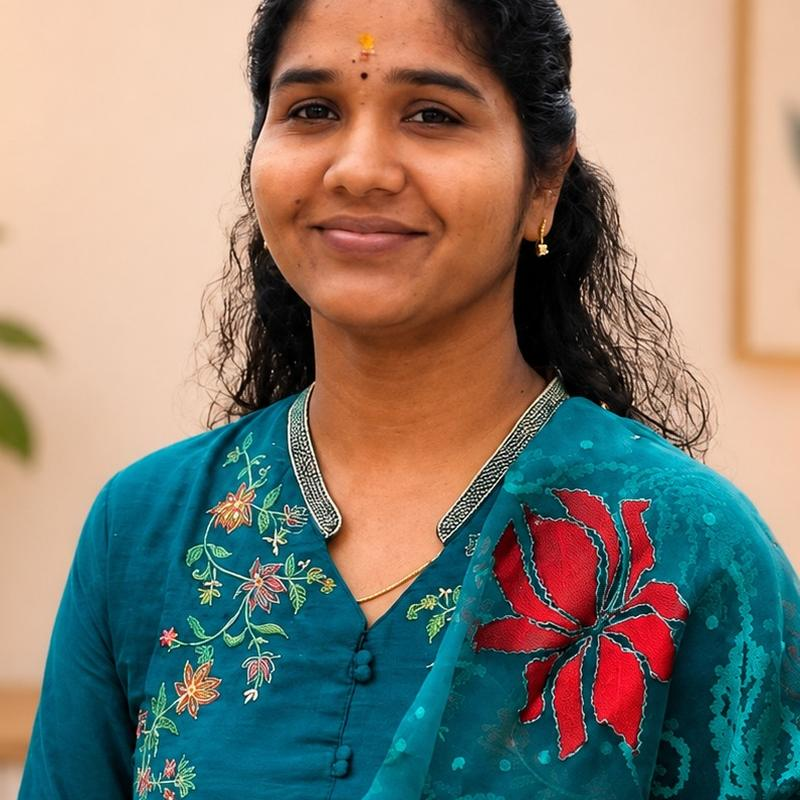
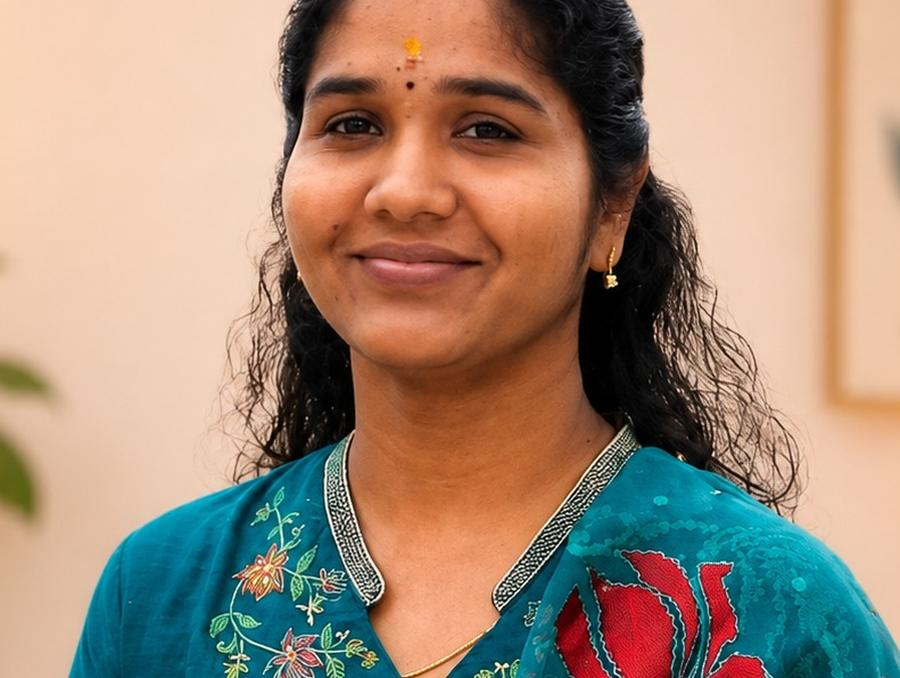
fix: center Dr. Monika's face in hero crop across all designs; unblock mobile action bar; version-stamp assets

diff --git a/index.html b/index.html
@@ -15,7 +15,7 @@
   <link rel="preconnect" href="https://fonts.googleapis.com">
   <link rel="preconnect" href="https://fonts.gstatic.com" crossorigin>
   <link rel="stylesheet" href="https://fonts.googleapis.com/css2?family=Anek+Tamil:wght@500;600;700&family=Hind+Madurai:wght@400;500;600;700&display=swap">
-  <link rel="stylesheet" href="css/style.css">
+  <link rel="stylesheet" href="css/style.css?v=3">
   <script type="application/ld+json">
   {
     "@context": "https://schema.org",
@@ -130,7 +130,7 @@
         </ul>
       </div>
       <figure class="hero-photo reveal">
-        <img src="assets/dr-monika-hero.jpg" alt="Dr. Monika M, Consultant Psychiatrist at MS Psychiatry Clinic, Madurai" width="480" height="470" style="object-position: 50% 18%" loading="eager">
+        <img src="assets/dr-monika-hero.jpg" alt="Dr. Monika M, Consultant Psychiatrist at MS Psychiatry Clinic, Madurai" width="480" height="470" loading="eager">
         <figcaption>
           <svg width="12" height="12" viewBox="0 0 24 24" fill="none" aria-hidden="true"><path d="M12 4v16M4 12h16" stroke="#D5392F" stroke-width="4" stroke-linecap="round"/></svg>
           Dr. Monika M · MD (Psychiatry) · MS கிளினிக்
@@ -445,12 +445,12 @@
   <svg width="26" height="26" viewBox="0 0 24 24" fill="none" aria-hidden="true"><path d="M12 3a9 9 0 0 0-7.8 13.5L3 21l4.7-1.2A9 9 0 1 0 12 3z" stroke="#fff" stroke-width="1.7"/><path d="M9 8.5c.4 2.9 3.6 6.1 6.5 6.5l1-1.8-2.3-1-1 .8a7 7 0 0 1-2.2-2.2l.8-1-1-2.3z" fill="#fff"/></svg>
 </a>
 
-<nav aria-label="Design previews" style="position: fixed; left: 16px; bottom: 16px; z-index: 80; display: flex; gap: 5px; padding: 5px; background: rgba(255,255,255,0.92); backdrop-filter: blur(8px); border: 1px solid #E9E3EF; border-radius: 999px; box-shadow: 0 6px 20px rgba(37,31,46,0.12); font-size: 11px; font-weight: 600">
+<nav class="design-pill" aria-label="Design previews" style="position: fixed; left: 16px; bottom: 16px; z-index: 80; display: flex; gap: 5px; padding: 5px; background: rgba(255,255,255,0.92); backdrop-filter: blur(8px); border: 1px solid #E9E3EF; border-radius: 999px; box-shadow: 0 6px 20px rgba(37,31,46,0.12); font-size: 11px; font-weight: 600">
   <a href="/" style="text-decoration: none; padding: 6px 11px; border-radius: 999px; background: #53407C; color: #fff">Current</a>
   <a href="/alt/dark.html" style="text-decoration: none; padding: 6px 11px; border-radius: 999px; color: #6E6879">ERP Dark</a>
   <a href="/alt/light.html" style="text-decoration: none; padding: 6px 11px; border-radius: 999px; color: #6E6879">ERP Light</a>
 </nav>
 
-<script src="js/main.js"></script>
+<script src="js/main.js?v=3"></script>
 </body>
 </html>

diff --git a/alt/dark.html b/alt/dark.html
@@ -9,7 +9,7 @@
   <link rel="preconnect" href="https://fonts.googleapis.com">
   <link rel="preconnect" href="https://fonts.gstatic.com" crossorigin>
   <link rel="stylesheet" href="https://fonts.googleapis.com/css2?family=Outfit:wght@400;500;600;700;800;900&family=JetBrains+Mono:wght@400;500;700&family=Hind+Madurai:wght@400;500;600&display=swap">
-  <link rel="stylesheet" href="alt.css">
+  <link rel="stylesheet" href="alt.css?v=3">
 </head>
 <body>
 
@@ -57,7 +57,7 @@
     </div>
     <div class="container" style="margin-top: 44px; display: grid; grid-template-columns: 1.2fr 0.8fr; gap: 16px">
       <figure class="hero-photo" style="margin: 0">
-        <img src="../assets/dr-monika-hero.jpg" alt="Dr. Monika M, Consultant Psychiatrist" style="height: 400px; object-position: 50% 18%">
+        <img src="../assets/dr-monika-hero.jpg" alt="Dr. Monika M, Consultant Psychiatrist" style="height: 400px">
         <figcaption class="glass-panel">DR. MONIKA M · MD (PSYCHIATRY) · CONSULTANT PSYCHIATRIST</figcaption>
       </figure>
       <figure class="hero-photo hero-side" style="margin: 0">
@@ -165,7 +165,7 @@
   <section class="section" id="doctor" style="padding-top: 0">
     <div class="container">
       <div class="glass-card" style="display: flex; gap: 28px; align-items: center; padding: 30px; flex-wrap: wrap">
-        <img src="../assets/dr-monika.jpg" alt="Dr. Monika M, Consultant Psychiatrist" width="250" height="250" style="width: 250px; height: 250px; object-fit: cover; object-position: 50% 20%; border-radius: 16px; border: 1px solid var(--border-subtle); box-shadow: 0 0 0 3px var(--indigo-tint), var(--glass-card-shadow); flex-shrink: 0">
+        <img src="../assets/dr-monika.jpg" alt="Dr. Monika M, Consultant Psychiatrist" width="250" height="250" style="width: 250px; height: 250px; object-fit: cover; border-radius: 16px; border: 1px solid var(--border-subtle); box-shadow: 0 0 0 3px var(--indigo-tint), var(--glass-card-shadow); flex-shrink: 0">
         <div style="display: flex; flex-direction: column; gap: 7px; min-width: 260px; flex: 1">
           <p class="eyebrow" style="margin: 0">YOUR DOCTOR · மருத்துவர்</p>
           <h2 style="margin: 0">Dr. Monika M</h2>

diff --git a/alt/light.html b/alt/light.html
@@ -9,7 +9,7 @@
   <link rel="preconnect" href="https://fonts.googleapis.com">
   <link rel="preconnect" href="https://fonts.gstatic.com" crossorigin>
   <link rel="stylesheet" href="https://fonts.googleapis.com/css2?family=Outfit:wght@400;500;600;700;800;900&family=JetBrains+Mono:wght@400;500;700&family=Hind+Madurai:wght@400;500;600&display=swap">
-  <link rel="stylesheet" href="alt.css">
+  <link rel="stylesheet" href="alt.css?v=3">
 </head>
 <body>
 
@@ -57,7 +57,7 @@
     </div>
     <div class="container" style="margin-top: 44px; display: grid; grid-template-columns: 1.2fr 0.8fr; gap: 16px">
       <figure class="hero-photo" style="margin: 0">
-        <img src="../assets/dr-monika-hero.jpg" alt="Dr. Monika M, Consultant Psychiatrist" style="height: 400px; object-position: 50% 18%">
+        <img src="../assets/dr-monika-hero.jpg" alt="Dr. Monika M, Consultant Psychiatrist" style="height: 400px">
         <figcaption class="glass-panel">DR. MONIKA M · MD (PSYCHIATRY) · CONSULTANT PSYCHIATRIST</figcaption>
       </figure>
       <figure class="hero-photo hero-side" style="margin: 0">
@@ -165,7 +165,7 @@
   <section class="section" id="doctor" style="padding-top: 0">
     <div class="container">
       <div class="glass-card" style="display: flex; gap: 28px; align-items: center; padding: 30px; flex-wrap: wrap">
-        <img src="../assets/dr-monika.jpg" alt="Dr. Monika M, Consultant Psychiatrist" width="250" height="250" style="width: 250px; height: 250px; object-fit: cover; object-position: 50% 20%; border-radius: 16px; border: 1px solid var(--border-subtle); box-shadow: 0 0 0 3px var(--indigo-tint), var(--glass-card-shadow); flex-shrink: 0">
+        <img src="../assets/dr-monika.jpg" alt="Dr. Monika M, Consultant Psychiatrist" width="250" height="250" style="width: 250px; height: 250px; object-fit: cover; border-radius: 16px; border: 1px solid var(--border-subtle); box-shadow: 0 0 0 3px var(--indigo-tint), var(--glass-card-shadow); flex-shrink: 0">
         <div style="display: flex; flex-direction: column; gap: 7px; min-width: 260px; flex: 1">
           <p class="eyebrow" style="margin: 0">YOUR DOCTOR · மருத்துவர்</p>
           <h2 style="margin: 0">Dr. Monika M</h2>

diff --git a/css/style.css b/css/style.css
@@ -575,3 +575,8 @@ h3 { font-size: 19px; font-weight: 700; }
   box-shadow: var(--shadow);
 }
 @media (max-width: 980px) { .doctor-photo { width: 120px; height: 120px; } }
+
+/* Keep design-preview pill clear of the mobile action bar */
+@media (max-width: 640px) {
+  .design-pill { bottom: 86px !important; }
+}
